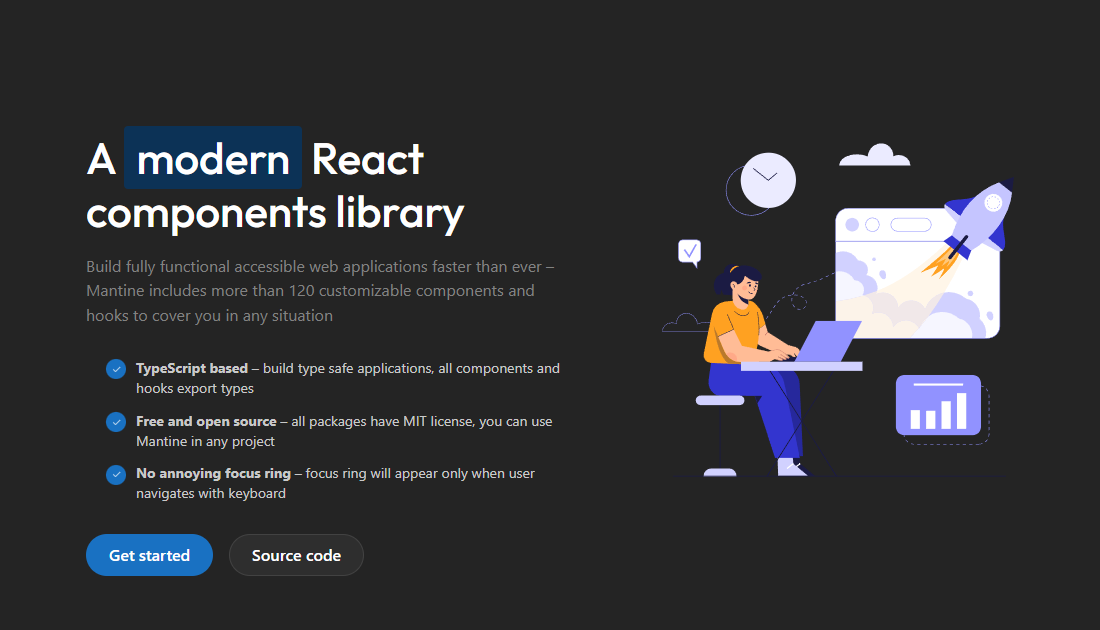
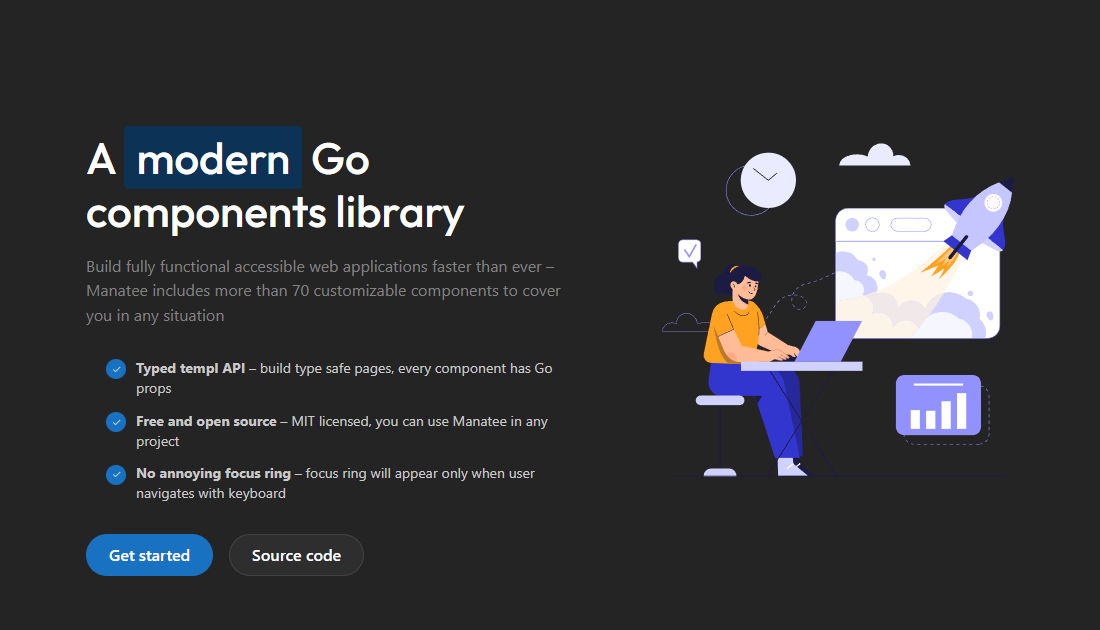
Blocks: replace React/Mantine marketing copy with Manatee

diff --git a/examples/ui/hero/hero_bullets_templ.go b/examples/ui/hero/hero_bullets_templ.go
@@ -85,7 +85,7 @@ func HeroBullets() templ.Component {
 					}()
 				}
 				ctx = templ.InitializeContext(ctx)
-				templ_7745c5c3_Err = templruntime.WriteString(templ_7745c5c3_Buffer, 3, "A <span class=\"hero-bullets__highlight\">modern</span> React <br>components library")
+				templ_7745c5c3_Err = templruntime.WriteString(templ_7745c5c3_Buffer, 3, "A <span class=\"hero-bullets__highlight\">modern</span> Go <br>components library")
 				if templ_7745c5c3_Err != nil {
 					return templ_7745c5c3_Err
 				}
@@ -107,7 +107,7 @@ func HeroBullets() templ.Component {
 					}()
 				}
 				ctx = templ.InitializeContext(ctx)
-				templ_7745c5c3_Err = templruntime.WriteString(templ_7745c5c3_Buffer, 4, "Build fully functional accessible web applications faster than ever – Mantine includes more than 120 customizable components and hooks to cover you in any situation")
+				templ_7745c5c3_Err = templruntime.WriteString(templ_7745c5c3_Buffer, 4, "Build fully functional accessible web applications faster than ever – Manatee includes more than 70 customizable components to cover you in any situation")
 				if templ_7745c5c3_Err != nil {
 					return templ_7745c5c3_Err
 				}
@@ -141,7 +141,7 @@ func HeroBullets() templ.Component {
 						}()
 					}
 					ctx = templ.InitializeContext(ctx)
-					templ_7745c5c3_Err = templruntime.WriteString(templ_7745c5c3_Buffer, 5, "<b>TypeScript based</b> – build type safe applications, all components and hooks export types")
+					templ_7745c5c3_Err = templruntime.WriteString(templ_7745c5c3_Buffer, 5, "<b>Typed templ API</b> – build type safe pages, every component has Go props")
 					if templ_7745c5c3_Err != nil {
 						return templ_7745c5c3_Err
 					}
@@ -163,7 +163,7 @@ func HeroBullets() templ.Component {
 						}()
 					}
 					ctx = templ.InitializeContext(ctx)
-					templ_7745c5c3_Err = templruntime.WriteString(templ_7745c5c3_Buffer, 6, "<b>Free and open source</b> – all packages have MIT license, you can use Mantine in any project")
+					templ_7745c5c3_Err = templruntime.WriteString(templ_7745c5c3_Buffer, 6, "<b>Free and open source</b> – MIT licensed, you can use Manatee in any project")
 					if templ_7745c5c3_Err != nil {
 						return templ_7745c5c3_Err
 					}

diff --git a/examples/ui/features/features_title_templ.go b/examples/ui/features/features_title_templ.go
@@ -26,12 +26,12 @@ var featuresTitleData = []featuresTitleItem{
 	{
 		Icon:        icons.IconReceiptOff(icons.Props{Size: 26, Stroke: 1.5}),
 		Title:       "Free and open source",
-		Description: "All packages are published under MIT license, you can use Mantine in any project",
+		Description: "Published under MIT license, you can use Manatee in any project",
 	},
 	{
 		Icon:        icons.IconFileCode(icons.Props{Size: 26, Stroke: 1.5}),
-		Title:       "TypeScript based",
-		Description: "Build type safe applications, all components and hooks export types",
+		Title:       "Typed templ API",
+		Description: "Build type safe pages, every component has typed Go props",
 	},
 	{
 		Icon:  icons.IconCircleDotted(icons.Props{Size: 26, Stroke: 1.5}),
@@ -128,7 +128,7 @@ func FeaturesTitle() templ.Component {
 						}()
 					}
 					ctx = templ.InitializeContext(ctx)
-					templ_7745c5c3_Err = templruntime.WriteString(templ_7745c5c3_Buffer, 3, "A fully featured React components library for your next project")
+					templ_7745c5c3_Err = templruntime.WriteString(templ_7745c5c3_Buffer, 3, "A fully featured Go components library for your next project")
 					if templ_7745c5c3_Err != nil {
 						return templ_7745c5c3_Err
 					}
@@ -150,7 +150,7 @@ func FeaturesTitle() templ.Component {
 						}()
 					}
 					ctx = templ.InitializeContext(ctx)
-					templ_7745c5c3_Err = templruntime.WriteString(templ_7745c5c3_Buffer, 4, "Build fully functional accessible web applications faster than ever – Mantine includes more than 120 customizable components and hooks to cover you in any situation")
+					templ_7745c5c3_Err = templruntime.WriteString(templ_7745c5c3_Buffer, 4, "Build fully functional accessible web applications faster than ever – Manatee includes more than 70 customizable components to cover you in any situation")
 					if templ_7745c5c3_Err != nil {
 						return templ_7745c5c3_Err
 					}

diff --git a/examples/ui/hero/hero_content_left_templ.go b/examples/ui/hero/hero_content_left_templ.go
@@ -90,7 +90,7 @@ func HeroContentLeft() templ.Component {
 					}()
 				}
 				ctx = templ.InitializeContext(ctx)
-				templ_7745c5c3_Err = templruntime.WriteString(templ_7745c5c3_Buffer, 3, "A fully featured React components library")
+				templ_7745c5c3_Err = templruntime.WriteString(templ_7745c5c3_Buffer, 3, "A fully featured Go components library")
 				if templ_7745c5c3_Err != nil {
 					return templ_7745c5c3_Err
 				}
@@ -112,7 +112,7 @@ func HeroContentLeft() templ.Component {
 					}()
 				}
 				ctx = templ.InitializeContext(ctx)
-				templ_7745c5c3_Err = templruntime.WriteString(templ_7745c5c3_Buffer, 4, "Build fully functional accessible web applications faster than ever – Mantine includes more than 120 customizable components and hooks to cover you in any situation")
+				templ_7745c5c3_Err = templruntime.WriteString(templ_7745c5c3_Buffer, 4, "Build fully functional accessible web applications faster than ever – Manatee includes more than 70 customizable components to cover you in any situation")
 				if templ_7745c5c3_Err != nil {
 					return templ_7745c5c3_Err
 				}

diff --git a/examples/ui/hero/hero_title_templ.go b/examples/ui/hero/hero_title_templ.go
@@ -117,7 +117,7 @@ func HeroTitle() templ.Component {
 			if templ_7745c5c3_Err != nil {
 				return templ_7745c5c3_Err
 			}
-			templ_7745c5c3_Err = templruntime.WriteString(templ_7745c5c3_Buffer, 5, " React components and hooks library</h1>")
+			templ_7745c5c3_Err = templruntime.WriteString(templ_7745c5c3_Buffer, 5, " Go web components library</h1>")
 			if templ_7745c5c3_Err != nil {
 				return templ_7745c5c3_Err
 			}
@@ -133,7 +133,7 @@ func HeroTitle() templ.Component {
 					}()
 				}
 				ctx = templ.InitializeContext(ctx)
-				templ_7745c5c3_Err = templruntime.WriteString(templ_7745c5c3_Buffer, 6, "Build fully functional accessible web applications with ease – Mantine includes more than 100 customizable components and hooks to cover you in any situation")
+				templ_7745c5c3_Err = templruntime.WriteString(templ_7745c5c3_Buffer, 6, "Build fully functional accessible web applications with ease – Manatee includes more than 70 customizable components to cover you in any situation")
 				if templ_7745c5c3_Err != nil {
 					return templ_7745c5c3_Err
 				}

diff --git a/examples/ui/hero/hero_image_right_templ.go b/examples/ui/hero/hero_image_right_templ.go
@@ -130,7 +130,7 @@ func HeroImageRight() templ.Component {
 				if templ_7745c5c3_Err != nil {
 					return templ_7745c5c3_Err
 				}
-				templ_7745c5c3_Err = templruntime.WriteString(templ_7745c5c3_Buffer, 6, " React components library")
+				templ_7745c5c3_Err = templruntime.WriteString(templ_7745c5c3_Buffer, 6, " Go components library")
 				if templ_7745c5c3_Err != nil {
 					return templ_7745c5c3_Err
 				}
@@ -152,7 +152,7 @@ func HeroImageRight() templ.Component {
 					}()
 				}
 				ctx = templ.InitializeContext(ctx)
-				templ_7745c5c3_Err = templruntime.WriteString(templ_7745c5c3_Buffer, 7, "Build fully functional accessible web applications with ease – Mantine includes more than 100 customizable components and hooks to cover you in any situation")
+				templ_7745c5c3_Err = templruntime.WriteString(templ_7745c5c3_Buffer, 7, "Build fully functional accessible web applications with ease – Manatee includes more than 70 customizable components to cover you in any situation")
 				if templ_7745c5c3_Err != nil {
 					return templ_7745c5c3_Err
 				}
